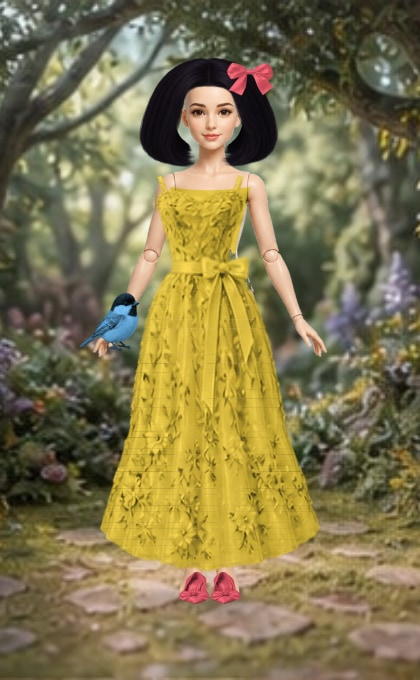
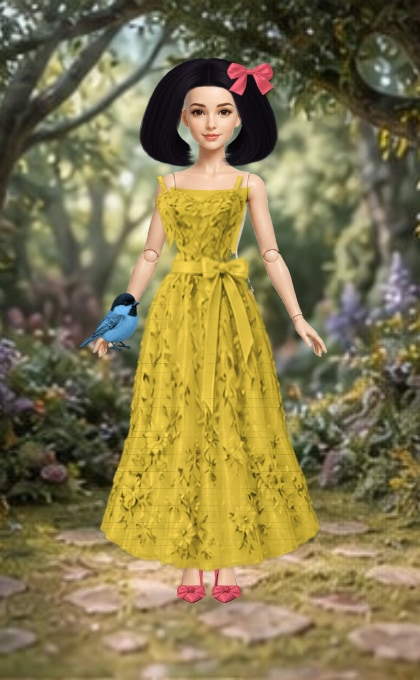
Fit princess clothes shoes hair and accessories as worn layers

diff --git a/princess/studio.js b/princess/studio.js
@@ -3,6 +3,9 @@
 // independently of the retired vector figure's coordinates.
 globalThis.PrincessStudio=(()=>{
   const ROOT='assets/studio-v3/';
+  const wearGeometry={"shoes":{"pumps":[[0.01042,0.00463,0.48958,0.99074],[0.50521,0.00463,0.48958,0.99074]],"glass":[[0.00521,0.0045,0.47396,0.99099],[0.52083,0.0045,0.47396,0.99099]],"boots":[[0.00649,0.00781,0.46753,0.99219],[0.50649,0.00391,0.48701,0.99609]],"sneakers":[[0.00521,0.00478,0.49479,0.99522],[0.5,0.00478,0.49479,0.99522]],"sandals":[[0.00521,0.00926,0.48958,0.98611],[0.51042,0.00463,0.48438,0.99074]],"ballet":[[0.00521,0,0.49479,0.9919],[0.5,0,0.49479,0.9919]],"rain":[[0.00524,0,0.48691,0.99609],[0.50262,0,0.49215,0.99609]],"slippers":[[0.01042,0.01935,0.48958,0.96774],[0.5,0.0129,0.49479,0.98065]],"kkotsin":[[0.00521,0.00515,0.48438,0.98969],[0.51042,0.00515,0.48438,0.98969]]},"bodies":{"snow":{"wrist":[299.66,278],"feet":[[177.34,26.72],[213.56,27.31]]},"cinder":{"wrist":[304.41,278],"feet":[[183.28,24.34],[211.78,24.34]]},"rapunzel":{"wrist":[307.97,278],"feet":[[177.94,26.13],[214.75,26.13]]},"mermaid":{"wrist":[307.67,278],"feet":[[183.28,25.53],[214.75,26.13]]},"thumb":{"wrist":[308.86,278],"feet":[[182.09,26.13],[213.56,26.13]]},"kongjwi":{"wrist":[307.97,278],"feet":[[180.91,26.13],[217.72,26.13]]},"briar":{"wrist":[311.23,278],"feet":[[174.97,28.5],[211.78,29.09]]},"moon":{"wrist":[304.41,278],"feet":[[177.34,27.31],[211.19,27.31]]}}};
+  const shoeWear={pumps:[533,46,.60],glass:[533,46,.60],boots:[475,104,0],sneakers:[542,37,.22],sandals:[535,44,.73],ballet:[521,58,.66],rain:[505,74,0],slippers:[549,30,.46],kkotsin:[540,39,.48]};
+  const gripPoints={wand:[.5,.84],fan:[.5,.9],bouquet:[.5,.8],umbrella:[.51,.88],bag:[.5,.12],balloon:[.47,.96],book:[.16,.62],lollipop:[.5,.86],sword:[.5,.74],mirror:[.5,.86],basket:[.5,.14]};
   // Individual fictional character designs; body build is not derived from ethnicity.
   const identities={
     snow:{sx:.97,sy:.95,fit:1.04,dx:0},cinder:{sx:.98,sy:1.01,fit:1.04,dx:0},
@@ -33,7 +36,7 @@ globalThis.PrincessStudio=(()=>{
     neck:{
       pearls:[185,112,51,44],heart:[193,113,36,49],gem:[190,113,42,52],
       scarf:[181,110,61,63],choker:[190,113,41,22],star:[192,112,38,53],
-      norigae:[208,179,34,102],flowerlei:[178,110,65,61]
+      norigae:[218,204,24,82],flowerlei:[178,110,65,61]
     },
     hand:{
       wand:[305,190,34,121],fan:[277,239,82,73],bouquet:[283,226,74,103],
@@ -60,6 +63,10 @@ globalThis.PrincessStudio=(()=>{
   };
   const cache=new Map(),pending=new Map();
   const dressMeshes={
+    party:[[0,123,190],[.052,132,205],[.112,151,265],[.176,174,280],[.313,215,290],[.485,273,215],[1,382,180]],
+    tutu:[[0,126,285],[.198,150,300],[.254,174,310],[.427,215,300],[.586,263,242],[1,336,190]],
+    summer:[[0,128,222],[.175,151,238],[.242,174,252],[.418,215,202],[.547,269,184],[1,392,171]],
+    rainbow:[[0,145,460],[.069,172,480],[.142,215,475],[.274,272,290],[.5,385,248],[1,568,245]],
     ballgown:[[0,125,300],[.10,152,300],[.15,184,495],[.20,215,440],[.28,246,320],[.5,350,278],[1,570,270]],
     aline:[[0,127,300],[.1,149,315],[.165,170,315],[.26,215,315],[.39,271,273],[.6,395,230],[1,548,220]],
     mermaidline:[[0,127,340],[.106,151,380],[.142,170,420],[.225,215,400],[.334,269,368],[.5,375,360],[.68,443,250],[1,570,218]],
@@ -69,10 +76,11 @@ globalThis.PrincessStudio=(()=>{
   };
   const escape=s=>String(s).replace(/[&<>"']/g,c=>({'&':'&amp;','<':'&lt;','>':'&gt;','"':'&quot;',"'":'&apos;'}[c]));
   const key=(cat,id)=>cat+'/'+id;
-  const path=(cat,id)=>cat==='body'?'assets/bodies-v4/body-'+id+'.png':ROOT+cat+'-'+id+(cat==='bg'?'.jpg':'.png');
+  const path=(cat,id)=>cat==='grip'?'assets/wear-v5/grip-'+id+'.png':cat==='body'?'assets/bodies-v4/body-'+id+'.png':ROOT+cat+'-'+id+(cat==='bg'?'.jpg':'.png');
   const href=(cat,id,embedded)=>embedded===undefined?path(cat,id):embedded[key(cat,id)];
   const fileKeys=(st,p)=>{
     const list=[key('bg',st.bg),key('hair',p.hair),key('body',p.id)];
+    if(st.hand)list.push(key('grip',p.id));
     for(const cat of ['back','dress','shoes','crown','neck','hand','pet']){
       if(st[cat]&&!(cat==='shoes'&&st.dress?.id==='tail'))list.push(key(cat,st[cat].id));
     }
@@ -110,43 +118,77 @@ globalThis.PrincessStudio=(()=>{
     const src=href('bg',id,embedded);if(!src)throw new Error('Missing background '+id);
     return `<image data-studio-background="${id}" href="${escape(src)}" width="420" height="680" preserveAspectRatio="xMidYMid slice"/>`;
   }
-  function body(p,bodyHref,scope,tail,dressColor){
-    const [r,g,b]=[1,1,1]; // Each original already contains its own complexion and facial sculpt.
-    const lining=dressColor?`<defs>${tone(scope+'-lining',dressColor,'dress')}<clipPath id="${scope}-lining-clip"><path d="M169 141Q209 148 252 141L243 177Q237 201 236 215Q238 235 251 260L229 274L216 286H204L190 274L168 260Q179 236 182 215Q180 194 175 177Z"/></clipPath></defs><image href="${escape(bodyHref)}" x="20" y="10" width="380" height="570" preserveAspectRatio="xMidYMid meet" filter="url(#${scope}-lining)" clip-path="url(#${scope}-lining-clip)"/>`:'';
-    return `<defs><filter id="${scope}-skin" color-interpolation-filters="sRGB"><feColorMatrix values="${r} 0 0 0 0 0 ${g} 0 0 0 0 0 ${b} 0 0 0 0 0 1 0"/></filter><clipPath id="${scope}-body-clip"><rect width="420" height="${tail?250:680}"/>${tail?'<rect width="141" height="680"/><rect x="279" width="141" height="680"/>':''}</clipPath></defs><g clip-path="url(#${scope}-body-clip)"><image data-studio-body="true" href="${escape(bodyHref)}" x="20" y="10" width="380" height="570" preserveAspectRatio="xMidYMid meet" filter="url(#${scope}-skin)"/>${lining}</g>`;
+  function body(p,bodyHref,scope,tail,dressColor,shoeId=null,holding=false,trousers=false){
+    const wx=wearGeometry.bodies[p.id].wrist[0],wear=shoeId&&shoeWear[shoeId];
+    const cuts=(tail?'<rect x="140" y="250" width="140" height="430" fill="black"/>':'')+
+      (trousers?`<rect x="140" y="250" width="140" height="${wear?wear[0]-250:430}" fill="black"/>`:'')+
+      (wear?`<rect x="145" y="${wear[0]+wear[1]*wear[2]}" width="140" height="150" fill="black"/>`:'')+
+      (holding?`<path d="M${wx-10} 278L${wx+9} 270L380 350H285Z" fill="black"/>`:'');
+    const lining=dressColor?`<defs>${tone(scope+'-lining',dressColor,'dress')}<clipPath id="${scope}-lining-clip"><path d="M169 141Q209 148 252 141L243 177Q237 201 236 215Q238 235 251 260L229 274L216 286H204L190 274L168 260Q179 236 182 215Q180 194 175 177Z"/></clipPath></defs><use href="#${scope}-body-source" filter="url(#${scope}-lining)" clip-path="url(#${scope}-lining-clip)"/>`:'';
+    return `<defs><image id="${scope}-body-source" data-studio-body="true" href="${escape(bodyHref)}" x="20" y="10" width="380" height="570" preserveAspectRatio="xMidYMid meet"/><mask id="${scope}-body-visible" maskUnits="userSpaceOnUse" x="0" y="0" width="420" height="680"><rect width="420" height="680" fill="white"/>${cuts}</mask></defs><g mask="url(#${scope}-body-visible)"><use href="#${scope}-body-source"/>${lining}</g>`;
+  }
+  function fittedShoes(st,p,scope,embedded,front){
+    if(!st.shoes||st.dress?.id==='tail')return '';
+    const {id,color}=st.shoes,[y,h,opening]=shoeWear[id],sid=scope+'-shoes-'+(front?'front':'back'),src=href('shoes',id,embedded);
+    const feet=wearGeometry.bodies[p.id].feet,dx=identities[p.id].dx;
+    const pairs=feet.map(([left,width],i)=>{
+      const box=wearGeometry.shoes[id][i],x=left+dx-2,w=width+4,mask=sid+'-opening-'+i;
+      const hole=front&&opening>0?`<path fill="black" d="M${x+w*.26} ${y+h*.07} Q${x+w*.5} ${y-h*.03} ${x+w*.74} ${y+h*.07} L${x+w*.81} ${y+h*opening} Q${x+w*.5} ${y+h*(opening+.1)} ${x+w*.19} ${y+h*opening}Z"/>`:'';
+      return `<defs><mask id="${mask}" maskUnits="userSpaceOnUse" x="${x-2}" y="${y-2}" width="${w+4}" height="${h+4}"><rect x="${x-2}" y="${y-2}" width="${w+4}" height="${h+4}" fill="white"/>${hole}</mask></defs><g mask="url(#${mask})"><svg x="${x}" y="${y}" width="${w}" height="${h}" viewBox="${box.join(' ')}" preserveAspectRatio="none" overflow="hidden"><image href="${escape(src)}" width="1" height="1" preserveAspectRatio="none"/></svg></g>`;
+    }).join('');
+    return `<g data-studio-part="shoes/${id}" data-wear-layer="${front?'shoe-front':'shoe-back'}" filter="url(#${sid}-tone)"><defs>${tone(sid+'-tone',color,'shoes')}</defs>${pairs}</g>`;
+  }
+  function heldProp(st,p,scope,embedded){
+    if(!st.hand)return '';
+    const {id,color}=st.hand,r=rects.hand[id],a=gripPoints[id],wx=wearGeometry.bodies[p.id].wrist[0]+identities[p.id].dx;
+    const tx=wx+16-(r[0]+r[2]*a[0]),ty=297-(r[1]+r[3]*a[1]);
+    return `<g data-wear-layer="held-prop" transform="translate(${tx} ${ty})" filter="url(#${scope}-contact)">${sprite('hand',id,color,scope+'-hand',embedded)}</g><image data-studio-part="grip/${p.id}" data-wear-layer="gripping-fingers" href="${escape(href('grip',p.id,embedded))}" x="${wx-7}" y="270" width="33" height="42" preserveAspectRatio="none"/>`;
+  }
+  function frontArms(st,p,scope){
+    const longSleeves=['hanbok','winter','adventure'].includes(st.dress?.id),y=longSleeves?278:225;
+    return `<defs><clipPath id="${scope}-front-arms"><path d="M65 ${y}H145L158 ${y+12}L125 335H65Z M275 ${y}H360V335H294L261 ${y+12}Z"/></clipPath></defs><g data-wear-layer="arms-over-clothes" transform="translate(${identities[p.id].dx} 0)" clip-path="url(#${scope}-front-arms)" mask="url(#${scope}-body-visible)"><use href="#${scope}-body-source"/></g>`;
   }
   function hair(p,color,scope,embedded,front=false){
-    const piece=sprite('hair',p.hair,color,scope,embedded);
+    const piece=sprite('hair',p.hair,color,scope,embedded),r=rects.hair[p.hair];
     const fit={moon:.87,briar:.92,kongjwi:.95,mermaid:.96,snow:1,cinder:1,rapunzel:.98,thumb:.95}[p.id];
-    return `<g transform="translate(210 0) scale(${fit} 1) translate(-210 0)">${piece}</g>`;
+    const fill=front||!['curls','afro','wavy','pigtails'].includes(p.hair)?'':`<defs>${tone(scope+'-fill-tint',color,'hair')}<clipPath id="${scope}-inset"><rect x="165" y="35" width="90" height="76"/></clipPath><filter id="${scope}-fill" x="-25%" y="-25%" width="150%" height="150%"><feMorphology in="SourceGraphic" operator="dilate" radius="8"/></filter></defs><g clip-path="url(#${scope}-inset)" filter="url(#${scope}-fill-tint)"><image href="${escape(href('hair',p.hair,embedded))}" x="${r[0]}" y="${r[1]}" width="${r[2]}" height="${r[3]}" preserveAspectRatio="none" filter="url(#${scope}-fill)"/></g>`;
+    return `<g data-wear-layer="${front?'hair-front':'hair-back'}" transform="translate(210 0) scale(${fit} 1) translate(-210 0)">${fill}${piece}</g>`;
   }
   function render(st,p,bodyHref='assets/fashion-doll-base-v1.png',embedded){
     const scope='studio-'+p.id,tail=st.dress?.id==='tail',identity=identities[p.id];
-    bodyHref=href('body',p.id,embedded);
-    if(!bodyHref)throw new Error('Missing body '+p.id);
+    bodyHref=href('body',p.id,embedded);if(!bodyHref)throw new Error('Missing body '+p.id);
     const part=cat=>{
       if(!st[cat])return '';
       const art=sprite(cat,st[cat].id,st[cat].color,scope+'-'+cat,embedded);
-      return cat==='dress'?`<g transform="translate(210 0) scale(${identity.fit} 1) translate(-210 0)">${art}</g>`:art;
+      const hem=st.dress?.id==='adventure'&&st.shoes?shoeWear[st.shoes.id][0]+5:680;
+      return cat==='dress'?`<defs><clipPath id="${scope}-hem"><rect width="420" height="${hem}"/></clipPath></defs><g data-wear-layer="clothes" filter="url(#${scope}-contact)" clip-path="url(#${scope}-hem)"><g mask="url(#${scope}-dress-fit)"><g transform="translate(210 0) scale(${identity.fit} 1) translate(-210 0)">${art}</g></g></g>`:art;
     };
-    return `<svg xmlns="http://www.w3.org/2000/svg" viewBox="0 0 420 680" width="420" height="680" role="img" aria-label="${escape(p.name)} 인형 꾸미기" data-art-version="studio-v3">
-      <defs><radialGradient id="${scope}-shade"><stop offset="0" stop-color="#17111f" stop-opacity=".34"/><stop offset="1" stop-color="#17111f" stop-opacity="0"/></radialGradient><linearGradient id="${scope}-edge" x2="0" y2="1"><stop stop-color="#fff" stop-opacity=".06"/><stop offset=".72" stop-color="#17111f" stop-opacity="0"/><stop offset="1" stop-color="#17111f" stop-opacity=".18"/></linearGradient></defs>
+    const neck=front=>{
+      if(!st.neck)return '';const {id,color}=st.neck,sid=scope+'-neck-'+front,scale=id==='norigae'?1:id==='choker'?.78:.86;
+      if(!front&&id==='norigae')return '';
+      return `<defs><clipPath id="${sid}-clip"><rect x="0" y="${front?119:0}" width="420" height="${front?561:119}"/></clipPath></defs><g data-wear-layer="neck-${front?'front':'back'}" clip-path="url(#${sid}-clip)" transform="translate(210 0) scale(${scale} 1) translate(-210 0)">${sprite('neck',id,color,sid,embedded)}</g>`;
+    };
+    const crown=front=>{
+      if(!st.crown)return '';const {id,color}=st.crown,sid=scope+'-crown-'+front,r=rects.crown[id];
+      const cut=id==='veil'?42:['crown','tiara','flowers','pearls','moon'].includes(id)?r[1]+r[3]*.80:680;
+      return `<defs><clipPath id="${sid}-clip"><rect x="0" y="-30" width="420" height="${front?cut+30:710}"/></clipPath></defs><g data-wear-layer="headwear-${front?'front':'back'}" clip-path="url(#${sid}-clip)" filter="url(#${scope}-contact)">${sprite('crown',id,color,sid,embedded)}</g>`;
+    };
+    return `<svg xmlns="http://www.w3.org/2000/svg" viewBox="0 0 420 680" width="420" height="680" role="img" aria-label="${escape(p.name)} 인형 꾸미기" data-art-version="wear-v5">
+      <defs><filter id="${scope}-contact" x="-10%" y="-10%" width="120%" height="120%" color-interpolation-filters="sRGB"><feDropShadow dx=".5" dy="1.2" stdDeviation=".85" flood-color="#2a1823" flood-opacity=".30"/></filter><radialGradient id="${scope}-shade"><stop offset="0" stop-color="#17111f" stop-opacity=".34"/><stop offset="1" stop-color="#17111f" stop-opacity="0"/></radialGradient></defs>
+      <defs><filter id="${scope}-torso-contour"><feMorphology in="SourceAlpha" operator="dilate" radius="6" result="contour"/><feFlood flood-color="white"/><feComposite in2="contour" operator="in"/></filter><mask id="${scope}-dress-fit" maskUnits="userSpaceOnUse" x="0" y="0" width="420" height="680"><use href="#${scope}-body-source" transform="translate(${identity.dx} 0)" filter="url(#${scope}-torso-contour)"/><rect y="220" width="420" height="460" fill="white"/></mask></defs>
       ${background(st.bg,embedded)}
-      <rect width="420" height="680" fill="url(#${scope}-edge)"/>
       <ellipse cx="210" cy="603" rx="97" ry="21" fill="url(#${scope}-shade)"/>
       <g data-body-identity="${p.id}" transform="translate(210 ${604-580*identity.sy}) scale(${identity.sx} ${identity.sy}) translate(-210 0)">
-      ${part('back')}
+      ${part('back')}${crown(false)}
       ${hair(p,st.hairColor,scope+'-hair-back',embedded)}
-      <g data-studio-part="body/${p.id}" transform="translate(${identity.dx} 0)">${body(p,bodyHref,scope,tail||st.dress?.id==='adventure',st.dress?.color)}</g>
-      ${tail||st.dress?.id==='adventure'?'':part('shoes')}
-      ${part('dress')}
-      ${st.dress?.id==='adventure'?part('shoes'):''}
+      ${neck(false)}${fittedShoes(st,p,scope,embedded,false)}
+      <g data-studio-part="body/${p.id}" transform="translate(${identity.dx} 0)">${body(p,bodyHref,scope,tail,st.dress?.color,tail?null:st.shoes?.id,!!st.hand,st.dress?.id==='adventure')}</g>
+      ${st.dress?.id==='adventure'?'':fittedShoes(st,p,scope,embedded,true)}
+      ${part('dress')}${st.dress?.id==='adventure'?fittedShoes(st,p,scope,embedded,true):''}${frontArms(st,p,scope)}
+      ${neck(true)}
       ${hair(p,st.hairColor,scope+'-hair-front',embedded,true)}
-      ${part('neck')}
-      ${part('crown')}
-      ${part('hand')}
-      </g>
-      <g transform="translate(0 24)">${part('pet')}</g>
+      ${crown(true)}${heldProp(st,p,scope,embedded)}
+      </g><g transform="translate(0 24)">${part('pet')}</g>
     </svg>`;
   }
   function thumb(cat,item,color,embedded){

diff --git a/princess/tests/studio.test.js b/princess/tests/studio.test.js
@@ -64,8 +64,9 @@ async function main(){
     const bytes=fs.readFileSync(path.join(dir,bodyPath));
     assert(bytes.includes(Buffer.from('tRNS'))||bytes[25]===6,'body PNG has no transparency: '+p.id);
     assert(studio.identities[p.id]);
+    const gripPath=studio.path('grip',p.id);assert(fs.existsSync(path.join(dir,gripPath)));allPaths.push(gripPath);
   }
-  assert.equal(new Set(allPaths).size,103,'expected 95 wardrobe/scenery assets and 8 individual bodies');
+  assert.equal(new Set(allPaths).size,111,'expected 95 wardrobe/scenery assets, 8 bodies and 8 gripping hands');
   const dirFiles=fs.readdirSync(path.join(dir,'assets/studio-v3'));
   assert.equal(dirFiles.filter(f=>/\.(png|jpg)$/.test(f)).length,95,'studio image count');
   const thumbDocument=api.CATS.filter(c=>c.list).map(c=>c.list.map(i=>api.thumbSVG(c.key,i,'#ff8fc1')).join('')).join('')+api.PRINCESSES.map(p=>api.princessThumb(p,p.hairColor)).join('');
@@ -127,3 +128,24 @@ async function main(){
   console.log(JSON.stringify({ok:true,studioPaths:new Set(allPaths).size,catalogCounts,exportCases,legacyPrincesses:api.PRINCESSES.length,thumbnailIds:ids(thumbDocument).length,allSlots:true,tailShoeSuppression:true,assetRetry:true,bodyRetry:true,readerRetry:true,concurrentRequestDeduplication:true,repeatSameItemThumbnailDuplicateIds:ids(repeated).length-new Set(ids(repeated)).size},null,2));
 }
 require('node:test')('studio assets, all selections, saved outfits and photo export stay in sync', main);
+require('node:test')('wearing layers preserve shoe openings, hair occlusion and gripping hands',()=>{
+  const {api,studio}=environment();let combinations=0;
+  for(const p of api.PRINCESSES)for(const dress of api.CATS.find(c=>c.key==='dress').list)for(const shoe of api.CATS.find(c=>c.key==='shoes').list){
+    const s=json(api.defaultState(p));s.dress={id:dress.id,color:'#6fc3ff'};s.shoes={id:shoe.id,color:'#ff8fc1'};
+    s.hand={id:'wand',color:'#ffd93d'};s.neck={id:'pearls',color:'#ffffff'};
+    const svg=api.dollSVG(s,p);checkSvg(svg);
+    const at=name=>svg.indexOf('data-wear-layer="'+name+'"');
+    assert(at('neck-front')<at('hair-front'));
+    assert(at('held-prop')<at('gripping-fingers'));
+    assert(svg.includes('data-studio-part="grip/'+p.id+'"'));
+    if(dress.id!=='tail'){
+      assert(at('shoe-back')<svg.indexOf('data-studio-part="body/'));
+      assert(dress.id==='adventure'?at('shoe-front')>at('clothes'):at('shoe-front')<at('clothes'));
+      assert(svg.includes('-opening-0')&&svg.includes('-opening-1'));
+    }else assert.equal(at('shoe-front'),-1);
+    combinations++;
+  }
+  assert.equal(combinations,936);
+  const p=api.PRINCESSES[0],s=json(api.defaultState(p));s.hand=null;
+  assert(!studio.fileKeys(s,p).some(k=>k.startsWith('grip/')));
+});

diff --git a/princess/index.html b/princess/index.html
@@ -230,7 +230,7 @@ document.addEventListener('dblclick',s,{passive:false});})();</script>
 </div>
 <div id="toast"></div>
 
-<script src="studio.js?v=30"></script>
+<script src="studio.js?v=31"></script>
 <script>
 'use strict';
 /* =========================================================

diff --git a/princess/ART-WEAR-V5.md b/princess/ART-WEAR-V5.md
@@ -1,0 +1,17 @@
+# Wearing-layer revision
+
+This remains a 2D image-layer dress-up game, not cloth simulation. This revision fixes attachment and occlusion instead of replacing the eight established identities.
+
+- Shoes use individually measured left/right foot bounds. Soles render behind feet; upper/toe pieces render in front. Open-shoe masks show the foot rather than the empty product-photo interior. Covered toes/legs are masked per shoe type.
+- Clothing uses a body-silhouette mask through the shoulders and waist, contact shadows, and additional torso/waist/hem fitting for party, tutu, summer and tiered gowns. Forearms/hands can occlude clothing; long sleeves keep their forearms covered.
+- Necklaces run behind the neck and under front hair. Headpieces have separate rear and exposed front sections. Back hair closes small face-opening gaps with sampled hair pixels, not a flat painted patch.
+- Each character has a new gripping-hand sprite, placed at its measured wrist. Every hand prop has a dedicated grip attachment point. The old open hand is hidden only while holding an item.
+- Existing selections, color controls, saved outfits and photo export are preserved.
+
+## Generated asset provenance
+
+Mode: built-in `image_gen`, one new eight-cell atlas. Original: `../../character-assets/princess-dressup/wear-v5/grips-atlas-v5.png`. Published, alpha-preserving hand crops: `assets/wear-v5/grip-{snow,cinder,rapunzel,mermaid,thumb,kongjwi,briar,moon}.png`. No CLI image-generation fallback. Exact prompt: `art-prompts/gripping-hands-v5.txt`.
+
+## QA
+
+`node --test princess/tests/studio.test.js` checks 111 images, export for every catalog item, saved states, failure retries and 936 character/outfit/shoe layer combinations. Production SVG renders were visually inspected as raster contact sheets. No iPad/browser interaction test is claimed.
